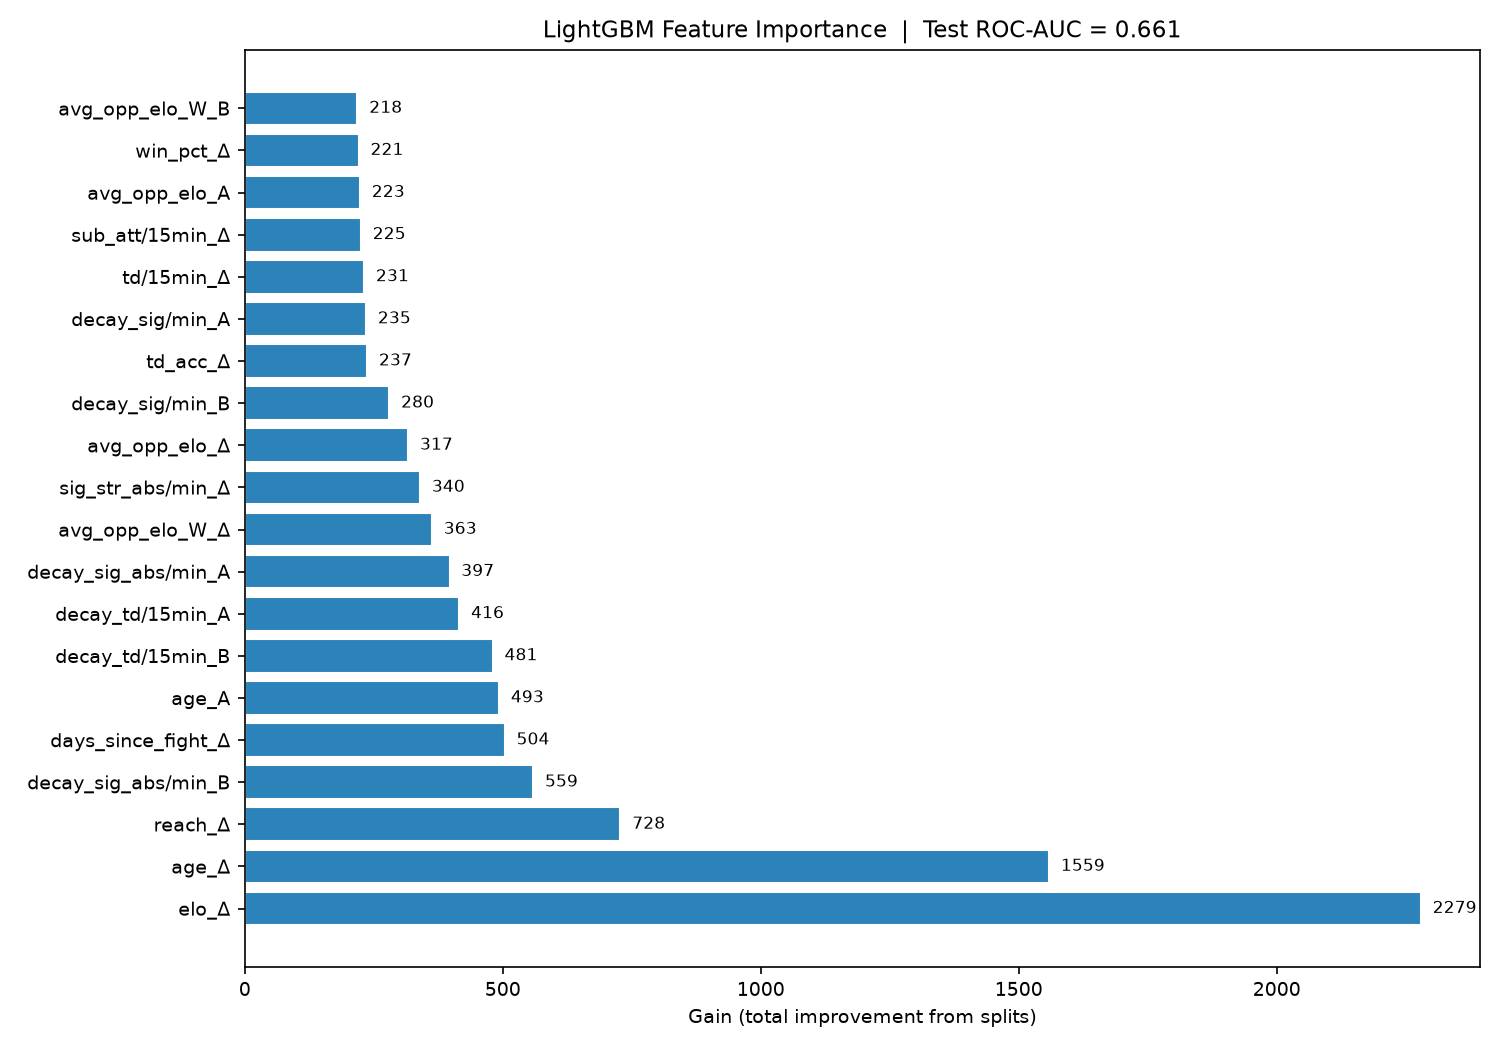
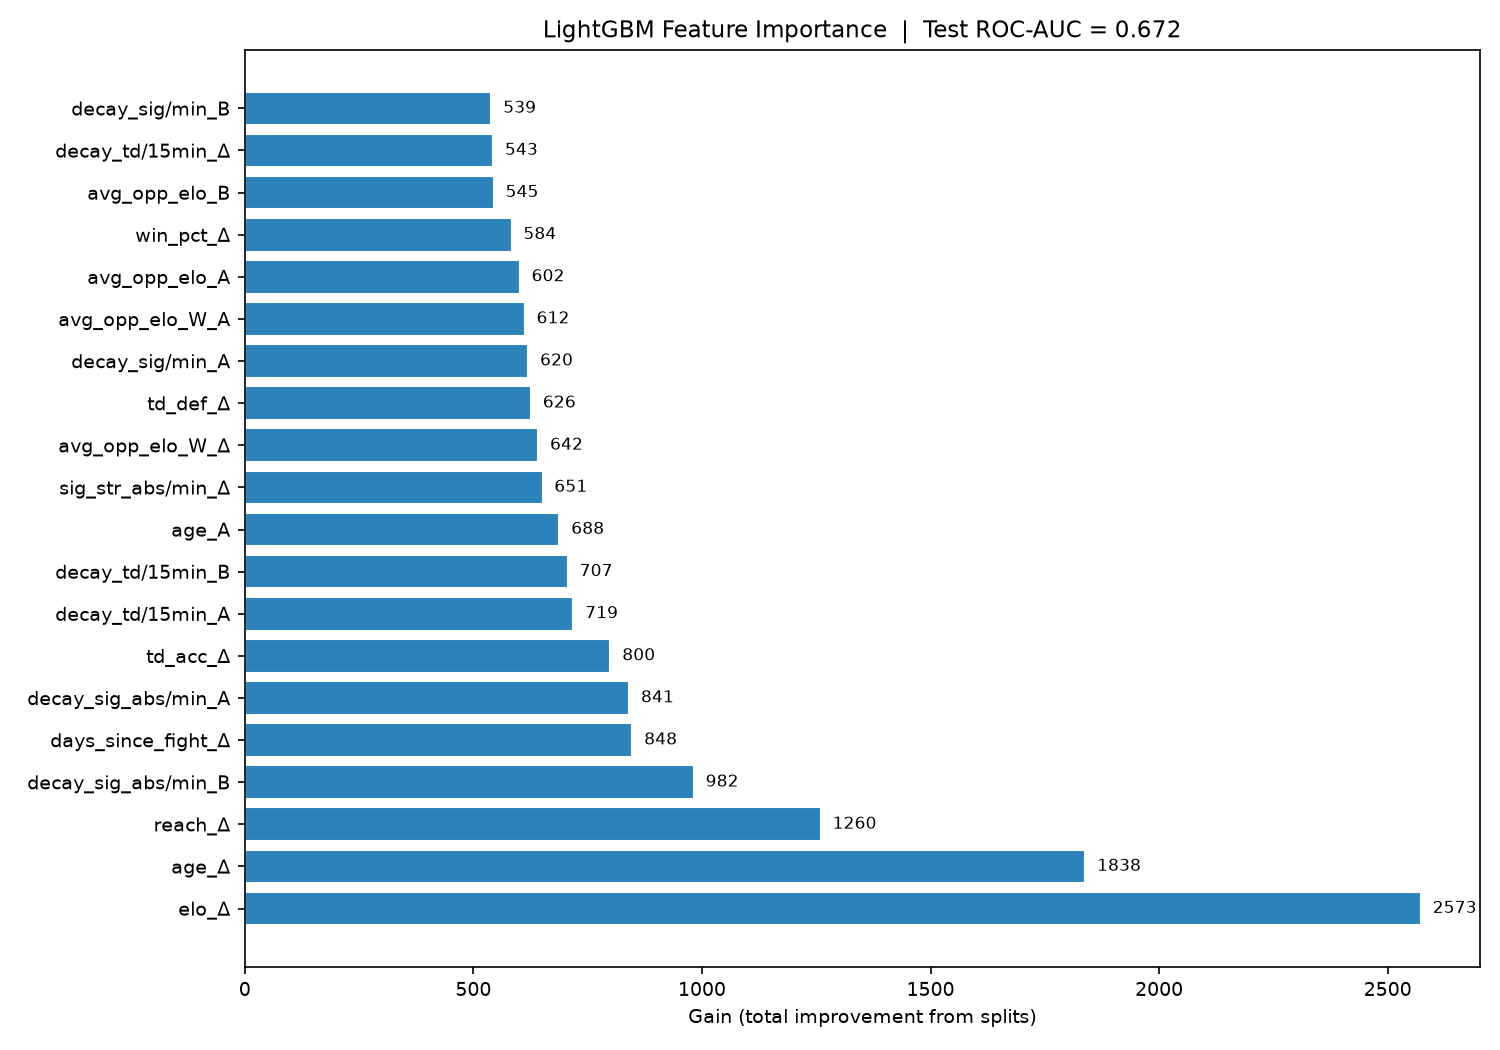
calibrated model

diff --git a/src/train_model.py b/src/train_model.py
@@ -1,6 +1,8 @@
 import pandas as pd
 import numpy as np
 import lightgbm as lgb
+from sklearn.calibration import CalibratedClassifierCV
+from sklearn.frozen import FrozenEstimator
 from sklearn.metrics import roc_auc_score, accuracy_score, log_loss, brier_score_loss
 import joblib
 import itertools
@@ -113,7 +115,8 @@ print(f"\nBest hyperparams (val_auc={best_score:.4f}, iters={best_n}):")
 for k, v in best_params.items():
     print(f"  {k}: {v}")
 
-# ─── FINAL MODEL ──────────────────────────────────────────────────────────────
+# ─── CALIBRATION (Platt scaling) ──────────────────────────────────────────────
+
 model = lgb.LGBMClassifier(
     n_estimators=2000, verbose=-1, random_state=42, missing=float("nan"),
     class_weight="balanced", max_depth=-1,
@@ -121,20 +124,52 @@ model = lgb.LGBMClassifier(
 )
 model.fit(X_train, y_train, eval_set=[(X_val, y_val)], eval_metric="logloss",
           callbacks=[lgb.early_stopping(50), lgb.log_evaluation(0)])
-
 best_n = model.best_iteration_
-model.set_params(n_estimators=best_n)
-model.fit(X_train_all, y_train_all)
 
-y_prob = model.predict_proba(X_test)[:, 1]
-y_pred = model.predict(X_test)
+model.set_params(n_estimators=best_n)
+model.fit(X_train, y_train)
+
+# Uncalibrated vs calibrated comparison
+y_prob_raw = model.predict_proba(X_test)[:, 1]
+calibrated = CalibratedClassifierCV(FrozenEstimator(model), method='sigmoid')
+calibrated.fit(X_val, y_val)
+y_prob_cal = calibrated.predict_proba(X_test)[:, 1]
+
+ll_raw = log_loss(y_test, y_prob_raw)
+ll_cal = log_loss(y_test, y_prob_cal)
+bs_raw = brier_score_loss(y_test, y_prob_raw)
+bs_cal = brier_score_loss(y_test, y_prob_cal)
+roc_raw = roc_auc_score(y_test, y_prob_raw)
+roc_cal = roc_auc_score(y_test, y_prob_cal)
+
+print(f"\n{'='*50}")
+print("Calibration (Platt scaling)")
+print(f"{'='*50}")
+print(f"{'':20s} {'Raw':>8s} {'Calibrated':>12s}")
+print(f"{'ROC-AUC':20s} {roc_raw:8.4f} {roc_cal:12.4f}")
+print(f"{'Log Loss':20s} {ll_raw:8.4f} {ll_cal:12.4f}")
+print(f"{'Brier score':20s} {bs_raw:8.4f} {bs_cal:12.4f}")
+
+# ─── FINAL MODEL (on all training data) ────────────────────────────────────────
+model_all = lgb.LGBMClassifier(
+    n_estimators=best_n, verbose=-1, random_state=42, missing=float("nan"),
+    class_weight="balanced", max_depth=-1,
+    **best_params,
+)
+model_all.fit(X_train_all, y_train_all)
+
+final_model = CalibratedClassifierCV(model_all, method='sigmoid', cv=5)
+final_model.fit(X_train_all, y_train_all)
+
+y_prob = final_model.predict_proba(X_test)[:, 1]
+y_pred = final_model.predict(X_test)
 acc = accuracy_score(y_test, y_pred)
 ll = log_loss(y_test, y_prob)
 bs = brier_score_loss(y_test, y_prob)
 roc = roc_auc_score(y_test, y_prob)
 
 print(f"\n{'='*50}")
-print("Test set evaluation (LightGBM)")
+print("Test set evaluation (LightGBM + Platt scaling)")
 print(f"{'='*50}")
 print(f"Accuracy:     {acc:.4f}")
 print(f"Log Loss:     {ll:.4f}")
@@ -142,10 +177,10 @@ print(f"Brier score:  {bs:.4f}")
 print(f"ROC-AUC:      {roc:.4f}")
 print(f"Best rounds:  {best_n}")
 
-# Calibration
+# Calibration (post-calibration)
 bins = np.linspace(0.0, 1.0, 11)
 bin_indices = np.clip(np.digitize(y_prob, bins) - 1, 0, 9)
-print(f"\n{'Calibration':^50s}")
+print(f"\n{'Post-Calibration':^50s}")
 print(f"  {'Bin range':<12s} {'n':>5s} {'avg_prob':>9s} {'obs_freq':>9s}")
 print(f"  {'-'*35}")
 for i in range(10):
@@ -157,8 +192,8 @@ for i in range(10):
 # ─── FEATURE IMPORTANCES ───────────────────────────────────────────────────────
 importances = pd.DataFrame({
     "feature": feature_cols_final,
-    "gain": model.booster_.feature_importance(importance_type="gain"),
-    "split": model.booster_.feature_importance(importance_type="split"),
+    "gain": model_all.booster_.feature_importance(importance_type="gain"),
+    "split": model_all.booster_.feature_importance(importance_type="split"),
 }).sort_values("gain", ascending=False)
 importances["pct"] = importances["gain"] / importances["gain"].sum() * 100
 
@@ -222,7 +257,7 @@ except Exception as e:
     print(f"\nPlot failed: {e}")
 
 # ─── SAVE ──────────────────────────────────────────────────────────────────────
-joblib.dump(model, MODEL_PATH)
+joblib.dump(final_model, MODEL_PATH)
 joblib.dump({
     "raw_feature_cols": raw_feature_cols,
     "cat_cols": cat_cols,

diff --git a/src/predict.py b/src/predict.py
@@ -15,7 +15,7 @@ SCALER_PATH = "models/ufc_scaler_logreg_full2.pkl"
 FEATURE_COLS_PATH = "models/ufc_lgbm_feature_cols.pkl"
 
 CUTOFF_DATE = datetime(2001, 1, 1)
-ELO_K = 32
+ELO_K = 96
 ELO_INITIAL = 1500
 
 
